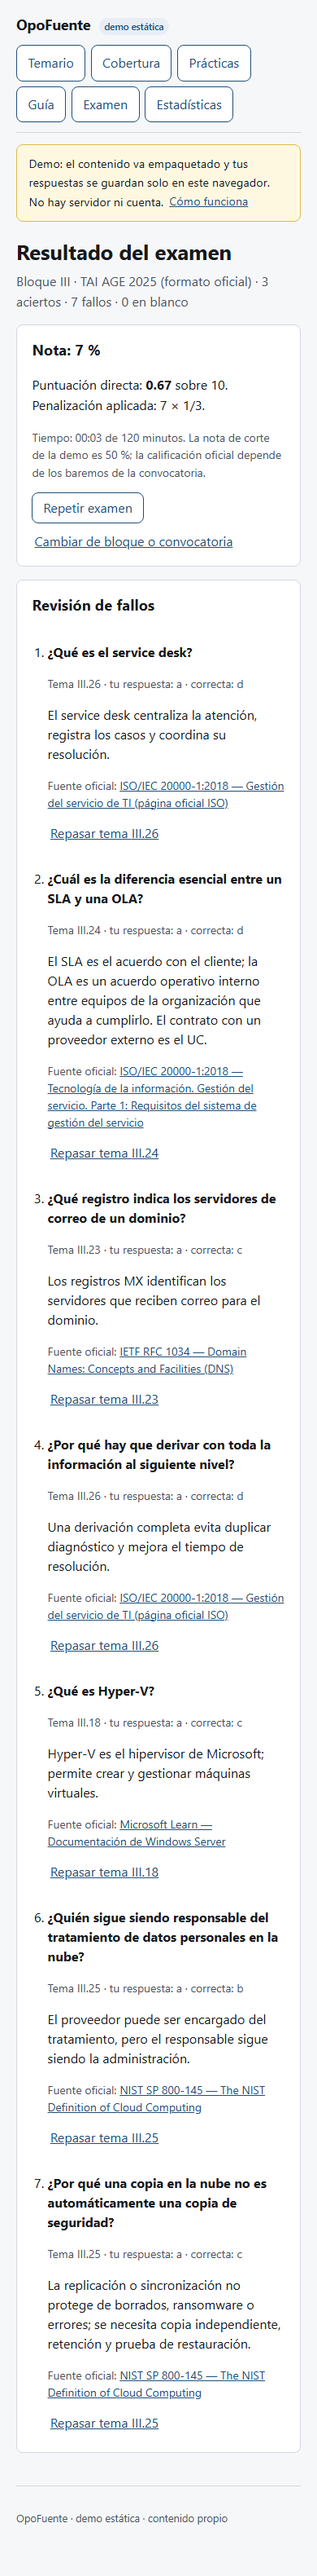
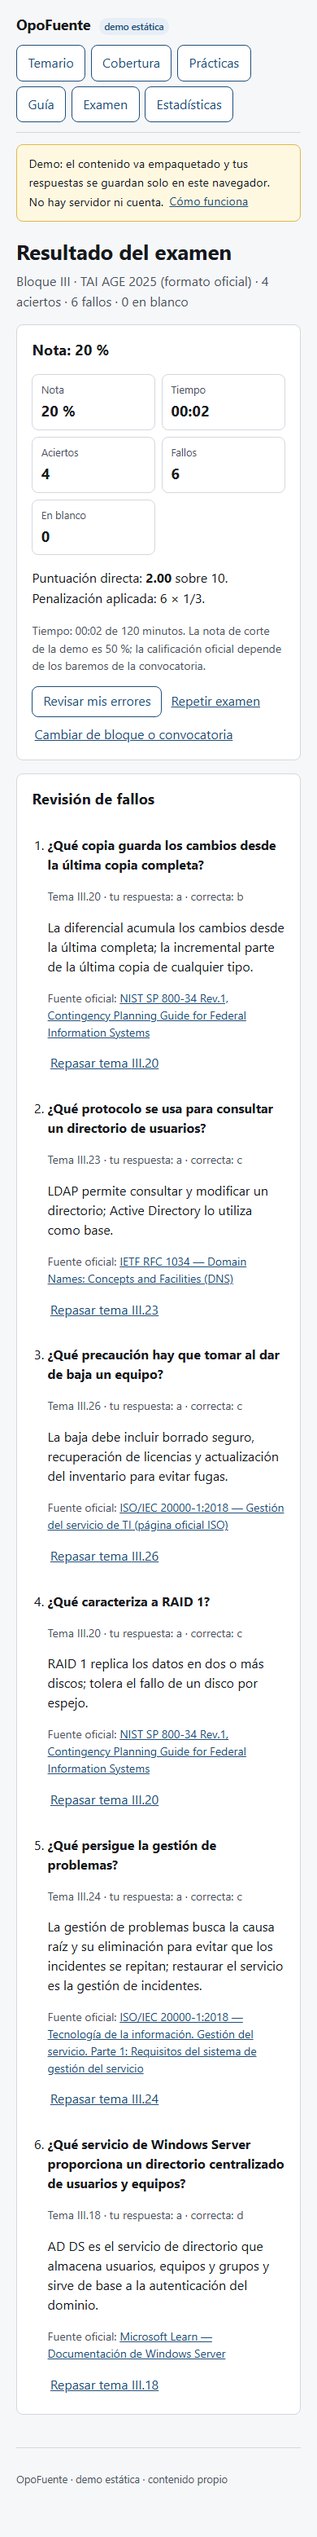
feat(demo): correccion al elegir, estados vacios y resultado de examen
- Practica: elegir opcion corrige y muestra "Siguiente" (sin "Comprobar");
  se anade comprobacion automatica de esa interaccion.
- Estadisticas vacias: acciones "Hacer practica" y "Empezar simulacro" en
  practicas e historial sin datos.
- Resultado de examen: resumen de nota, tiempo, aciertos, fallos y blancos;
  "Revisar mis errores" como primera accion y salto a la revision.
- 67/67 comprobaciones publicas; captura de estadisticas vacias y docs al dia.

Puertas: 517 unitarias backend, 225 web, typecheck, eslint, ruff, mypy y build.

Changed region(s): [[0.0615, 0.0, 0.8923, 0.9659]]

diff --git a/apps/web/demo/main.tsx b/apps/web/demo/main.tsx
@@ -812,6 +812,13 @@ function Examen({ initialBlock }: { readonly initialBlock?: string | undefined }
         </section>
         <section className="card">
           <h2>Nota: {nota} %</h2>
+          <ul className="demo-result-stats">
+            <li><span>Nota</span><strong>{nota} %</strong></li>
+            <li><span>Tiempo</span><strong>{formatoTiempo(rule.minutes * 60 - timeLeft)}</strong></li>
+            <li><span>Aciertos</span><strong>{aciertos}</strong></li>
+            <li><span>Fallos</span><strong>{fallos}</strong></li>
+            <li><span>En blanco</span><strong>{blancos}</strong></li>
+          </ul>
           <p>
             Puntuación directa: <strong>{neto.toFixed(2)}</strong> sobre {questions.length}. Penalización
             aplicada: {fallos} × {penalizacionTexto(rule.penalty)}.
@@ -821,7 +828,14 @@ function Examen({ initialBlock }: { readonly initialBlock?: string | undefined }
             corte de la demo es 50 %; la calificación oficial depende de los baremos de la convocatoria.
           </p>
           <div className="demo-actions">
-            <button className="button" type="button" onClick={empezar}>
+            <button
+              className="button"
+              type="button"
+              onClick={() => { document.getElementById('revision-fallos')?.scrollIntoView({ behavior: 'smooth' }); }}
+            >
+              Revisar mis errores
+            </button>
+            <button className="button button--link" type="button" onClick={empezar}>
               Repetir examen
             </button>
             <button className="button button--link" type="button" onClick={() => { setPhase('setup'); }}>
@@ -829,7 +843,7 @@ function Examen({ initialBlock }: { readonly initialBlock?: string | undefined }
             </button>
           </div>
         </section>
-        <section className="card">
+        <section className="card" id="revision-fallos">
           <h2>Revisión de fallos</h2>
           {fallosDetalle.length === 0 ? (
             <p>Sin fallos. Puedes subir el número de preguntas o cambiar de bloque.</p>
@@ -967,7 +981,17 @@ function Estadisticas() {
       <section className="card">
         <h2>Estadísticas de prácticas</h2>
         {hechas.length === 0 ? (
-          <p>Todavía no hay prácticas hechas. Haz una y aquí verás tus estadísticas.</p>
+          <>
+            <p>Todavía no hay prácticas hechas. Empieza por una práctica corta o por un simulacro completo.</p>
+            <div className="demo-actions">
+              <button className="button" type="button" onClick={() => { go('practicas'); }}>
+                Hacer práctica
+              </button>
+              <button className="button button--link" type="button" onClick={() => { go('examen'); }}>
+                Empezar simulacro
+              </button>
+            </div>
+          </>
         ) : (
           <>
             {porBloque.map(({ block, items, porcentaje }) => (
@@ -1014,7 +1038,17 @@ function Estadisticas() {
         <h2>Historial de intentos</h2>
         <p className="hint">Prácticas y exámenes guardados en este navegador.</p>
         {attempts.length === 0 ? (
-          <p>Todavía no hay intentos registrados.</p>
+          <>
+            <p>Todavía no hay intentos registrados.</p>
+            <div className="demo-actions">
+              <button className="button" type="button" onClick={() => { go('practicas'); }}>
+                Hacer práctica
+              </button>
+              <button className="button button--link" type="button" onClick={() => { go('examen'); }}>
+                Empezar simulacro
+              </button>
+            </div>
+          </>
         ) : (
           <div className="table-wrap">
             <table className="table">

diff --git a/apps/web/demo/demo.css b/apps/web/demo/demo.css
@@ -428,3 +428,30 @@
     font-weight: 600;
   }
 }
+
+.demo-result-stats {
+  display: grid;
+  grid-template-columns: repeat(auto-fit, minmax(7rem, 1fr));
+  gap: 0.5rem;
+  padding: 0;
+  margin: 0.5rem 0 1rem;
+  list-style: none;
+}
+
+.demo-result-stats li {
+  display: grid;
+  gap: 0.15rem;
+  padding: 0.5rem 0.65rem;
+  border: 1px solid var(--color-borde);
+  border-radius: var(--radio);
+  background: var(--color-superficie);
+}
+
+.demo-result-stats span {
+  font-size: 0.8rem;
+  color: var(--color-texto-suave);
+}
+
+.demo-result-stats strong {
+  font-size: 1.15rem;
+}

diff --git a/PORTFOLIO.md b/PORTFOLIO.md
@@ -68,6 +68,9 @@ servidor.
   fichero JSON (no hay backend).
 - **Estadísticas** (`#/estadisticas`): bloque «Estadísticas de prácticas» con acierto por tema y
   bloque, 5 temas más flojos, y «Historial de intentos» separado con prácticas y exámenes.
+- **Estados vacíos con acción** en Estadísticas: «Hacer práctica» y «Empezar simulacro».
+- **Resultado de examen** con nota, tiempo, aciertos/fallos/blancos y «Revisar mis errores» como
+  primera acción.
 - Portada corta con **«Continuar donde lo dejé»** y 3 prácticas siguientes.
 - Índice con **avance por bloque** («I: 11/12 con apuntes»), **búsqueda por código o título** y
   filtros «Con apuntes» / «Con práctica».
@@ -108,6 +111,7 @@ servidor.
 | Examen completo | — | [examen-completo-390](docs/capturas/demo-pages/examen-completo-390.png) |
 | Resultado del examen | — | [examen-resultado-390](docs/capturas/demo-pages/examen-resultado-390.png) |
 | Estadísticas | — | [estadisticas-390](docs/capturas/demo-pages/estadisticas-390.png) |
+| Estadísticas vacías | — | [estadisticas-vacia-390](docs/capturas/demo-pages/estadisticas-vacia-390.png) |
 | Corrección con BOE | [correccion-1280](docs/capturas/demo-pages/correccion-1280.png) | — |
 
 ![Portada de la demo](docs/capturas/demo-pages/portada-1280.png)
@@ -115,7 +119,7 @@ servidor.
 ## 4. Estado y evidencia
 
 - **Publicada:** HTTP 200 en la URL pública; GitHub Pages reconstruye desde el build.
-- **Verificación:** **63/63** comprobaciones con Playwright contra la URL pública y **12/12 enlaces**
+- **Verificación:** **67/67** comprobaciones con Playwright contra la URL pública y **12/12 enlaces**
   de convocatoria abren (HTTP 200): portada,
   convocatorias, aviso único, 40 temas, cobertura de 40 filas, sellos, búsqueda por II.13, filtro
   «Con práctica», tema completo, tema pendiente, corrección con enlace al BOE, práctica completa y
@@ -172,7 +176,7 @@ servidor.
 
 ## 9. Revisión final y qué queda
 
-- **63/63** comprobaciones, también a **390 px**; capturas nuevas en
+- **67/67** comprobaciones, también a **390 px**; capturas nuevas en
   [docs/capturas/demo-pages](docs/capturas/demo-pages/) y checklist en
   [REVISION-FINAL-2026-11-10.md](docs/REVISION-FINAL-2026-11-10.md).
 - **40/40** temas completos: I 12/12 · II 5/5 · III 9/9 · IV 7/7 · V 7/7.
@@ -180,4 +184,4 @@ servidor.
   apuntes propios, tabla, ejemplo, fuente, 10 preguntas y su fila/sello en el mapa.
 
 `resumen:` OpoFuente entra en el portfolio como proyecto **funcional y demostrable**: demo pública,
-40/40 temas con apuntes y práctica, 400 preguntas, 12 convocatorias, 63/63 comprobaciones y 12/12 enlaces de convocatoria abren; límites y derechos documentados.
+40/40 temas con apuntes y práctica, 400 preguntas, 12 convocatorias, 67/67 comprobaciones y 12/12 enlaces de convocatoria abren; límites y derechos documentados.

diff --git a/docs/DEMO-PAGES.md b/docs/DEMO-PAGES.md
@@ -1,6 +1,6 @@
 # Demo estática publicada en GitHub Pages
 
-**URL verificada:** <https://erdeivih.github.io/opofuente-demo/> · **estado:** HTTP 200 y **63/63**
+**URL verificada:** <https://erdeivih.github.io/opofuente-demo/> · **estado:** HTTP 200 y **67/67**
 comprobaciones con Playwright contra la URL pública (10/11/2026). Publicada desde el repositorio
 público `ErDeivih/opofuente-demo`, que contiene **solo el build** (sin código fuente, sin fixtures y
 sin material privado).
@@ -21,7 +21,8 @@ guarda en `localStorage`. **No hay cuenta, no hay servidor y no se envía nada.*
   fuente de revisión, y formulario de **reporte de erratas** que descarga un JSON.
 - **Seguridad**: CSP por `<meta>`, `referrer: no-referrer` y `connect-src 'none'`; el examen se
   etiqueta como **«Simulación»**.
-- **Historial unificado** de prácticas y exámenes: tipo, bloque, fecha, aciertos y nota en Estadísticas.
+- **Historial unificado** de prácticas y exámenes: tipo, bloque, fecha, aciertos, tiempo y nota en Estadísticas; estados vacíos con acciones.
+- **Resultado de examen** con resumen de nota/tiempo/aciertos/fallos/blancos y «Revisar mis errores» primero.
 - **Examen con formato real**: tiempo límite y penalización por fallo según convocatoria (TAI oficial;
   C1 local marcado como estimación).
 - **Examen por bloque** y **examen completo** (`#/examen`): N preguntas aleatorias, sin corrección
@@ -68,7 +69,7 @@ Cada uno cita su fuente (BOE consolidado, TUE/TFUE, RFC o ISO según el tema).
 4. Copia `dist-demo` al clon del repo público `ErDeivih/opofuente-demo` (rama `main`, junto a
    `.nojekyll`), `git add -A && git commit -m "demo" && git push origin main`.
 5. Verifica: `node docs/interfaz/capturar-demo-pages.mjs https://erdeivih.github.io/opofuente-demo/`
-   → **63/63** y capturas.
+   → **67/67** y capturas.
 
 ## Verificación y capturas
 
@@ -103,6 +104,7 @@ Revisión final móvil en [`REVISION-FINAL-2026-11-10.md`](REVISION-FINAL-2026-1
 | Examen completo | — | `examen-completo-390.png` |
 | Resultado del examen | — | `examen-resultado-390.png` |
 | Estadísticas | — | `estadisticas-390.png` |
+| Estadísticas vacías | — | `estadisticas-vacia-390.png` |
 | Corrección con BOE | `correccion-1280.png` | — |
 | Resultado | `resultado-1280.png` | — |
 

diff --git a/docs/REVISION-FINAL-2026-11-10.md b/docs/REVISION-FINAL-2026-11-10.md
@@ -1,6 +1,6 @@
 # Revisión final de la demo — 10/11/2026
 
-**URL:** <https://erdeivih.github.io/opofuente-demo/> · **Verificación:** **63/63** comprobaciones con
+**URL:** <https://erdeivih.github.io/opofuente-demo/> · **Verificación:** **67/67** comprobaciones con
 Playwright contra la URL pública, a 1280 y **390 px**. Sin errores de página.
 
 ## Qué se ha revisado
@@ -36,6 +36,7 @@ Playwright contra la URL pública, a 1280 y **390 px**. Sin errores de página.
 | Examen completo | [examen-completo-390](capturas/demo-pages/examen-completo-390.png) |
 | Resultado del examen | [examen-resultado-390](capturas/demo-pages/examen-resultado-390.png) |
 | Estadísticas | [estadisticas-390](capturas/demo-pages/estadisticas-390.png) |
+| Estadísticas vacías | [estadisticas-vacia-390](capturas/demo-pages/estadisticas-vacia-390.png) |
 | Tema V.40 | [tema-v-40-390](capturas/demo-pages/tema-v-40-390.png) |
 | Tema completo (I.1) | [tema-completo-390](capturas/demo-pages/tema-completo-390.png) |
 | Tema pendiente (III.23) | [tema-pendiente-390](capturas/demo-pages/tema-pendiente-390.png) |
@@ -50,6 +51,7 @@ Playwright contra la URL pública, a 1280 y **390 px**. Sin errores de página.
 - **Examen por bloque** con tiempo/penalización, **historial unificado** e **histórico de intentos**
   verificados; fecha de revisión visible en la ficha.
 - **CSP y referrer** presentes; **errata descargada como JSON**; etiqueta **Simulación** en el examen.
+- **Corrección al elegir** sin «Comprobar», **estados vacíos con acción** y **resultado con revisión primero**.
 - Pruebas: 517 unitarias de backend, 225 de web, typecheck, eslint, ruff, mypy y build.
 
 ## Temario completo

diff --git a/ESTADO-AGENTE.md b/ESTADO-AGENTE.md
@@ -1,8 +1,8 @@
 titulo: OpoFuente — temario comun de oposiciones de informatica C1
-resumen: Sesion 10/11 (noche): examen completo con mezcla de los cinco bloques, 100 preguntas por defecto, 120 min, penalizacion -1/3 y nota final; historial de intentos con fecha, tipo, bloque, aciertos, tiempo y nota; CASO-OPOFUENTE.md para portfolio con 40/40, 400 preguntas, metricas y capturas. 63/63 comprobaciones y 12/12 enlaces.
+resumen: Sesion 10/11 (noche): practica que corrige al elegir y muestra Siguiente sin Comprobar; estados vacios de Estadisticas con Hacer practica y Empezar simulacro; resultado de examen con nota, tiempo, aciertos/fallos/blancos y Revisar mis errores como primera accion. 40/40 temas, 400 preguntas; 67/67 comprobaciones y 12/12 enlaces.
 estado: completado
-tarea: demo completa con examen completo, historial y caso de portfolio
+tarea: demo completa con UX de practica y examen pulida
 nivel: 2
-siguiente: mantener la demo y actualizar reglas de C1 locales cuando se publiquen; TAI recuperado privado (derechos)
+siguiente: mantener la demo; reglas de C1 locales pendientes de bases oficiales; TAI recuperado privado
 bloqueado: ninguno
 fecha: 2026-11-10

diff --git a/docs/MAPA-COBERTURA.md b/docs/MAPA-COBERTURA.md
@@ -1,7 +1,7 @@
 # Mapa de cobertura del temario
 
 **Publicado en la demo:** <https://erdeivih.github.io/opofuente-demo/#/cobertura> · **Verificado:**
-63/63 comprobaciones (10/11/2026), con **12/12 enlaces de convocatoria** abriendo (HTTP 200). La tabla
+67/67 comprobaciones (10/11/2026), con **12/12 enlaces de convocatoria** abriendo (HTTP 200). La tabla
 cuenta **solo el contenido propio publicado**; el material de academia o de terceros es referencia
 interna y no suma cobertura (decisión D-034).
 
@@ -82,7 +82,7 @@ distinto (no hay otro tema del índice que trate procesadores) ni se publican.
 
 ## Coherencia del mapa y los sellos
 
-Comprobado con el build y con Playwright sobre la URL pública (63/63): los 40 temas de la tabla
+Comprobado con el build y con Playwright sobre la URL pública (67/67): los 40 temas de la tabla
 coinciden con los sellos de apuntes y práctica; los 40 completos tienen 3+ apartados, tabla, fuente y
 10 preguntas; no hay pendientes ni temas «solo resumen». La suma por bloque cuadra con el total
 (40 + 0 = 40). Los **12 enlaces de convocatoria** abren (HTTP 200) y su texto empieza por «Bases de»;

diff --git a/docs/CASO-OPOFUENTE.md b/docs/CASO-OPOFUENTE.md
@@ -15,7 +15,7 @@ prácticas**, publicado como demo estática, sin cuentas ni backend, con progres
 | Prácticas | **40** (una por tema) |
 | Bloques | **5** (I-IV al 100 %; V 7/7) |
 | Convocatorias C1 | **12** (10 draft, 2 archivadas) |
-| Comprobaciones Playwright | **63/63** en la URL pública |
+| Comprobaciones Playwright | **67/67** en la URL pública |
 | Enlaces de convocatoria | **12/12** (HTTP 200) |
 | Pruebas | **517** unitarias backend · **225** web |
 | Capturas | 390 y 1280 px en `docs/capturas/demo-pages/` |
